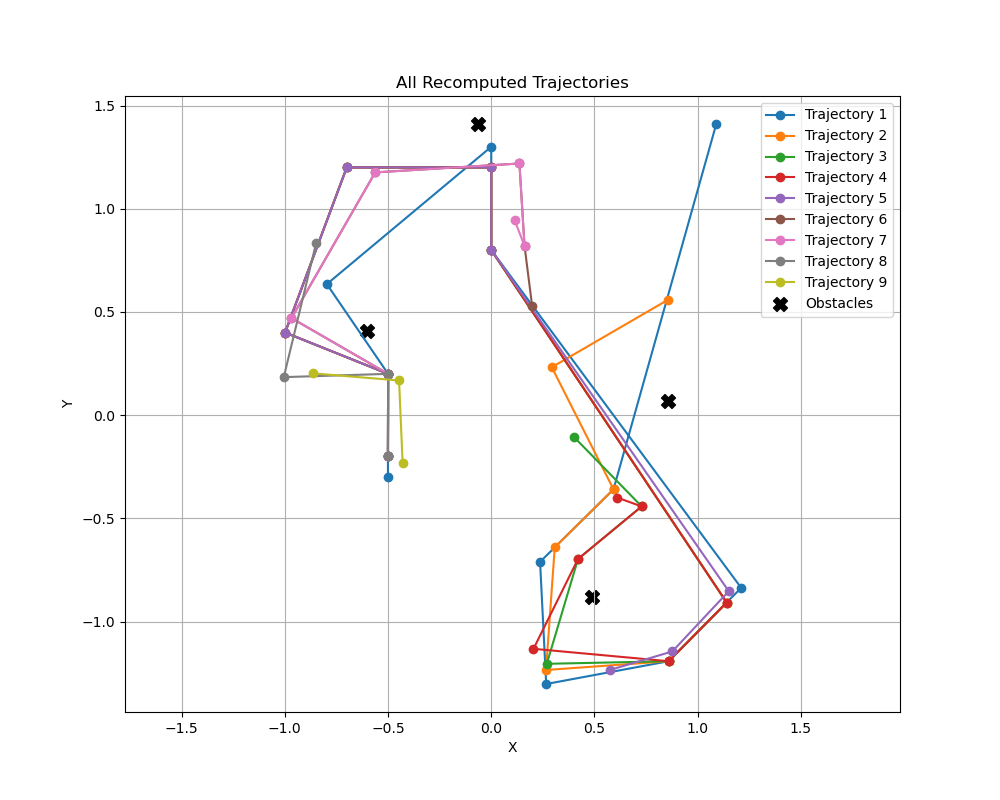
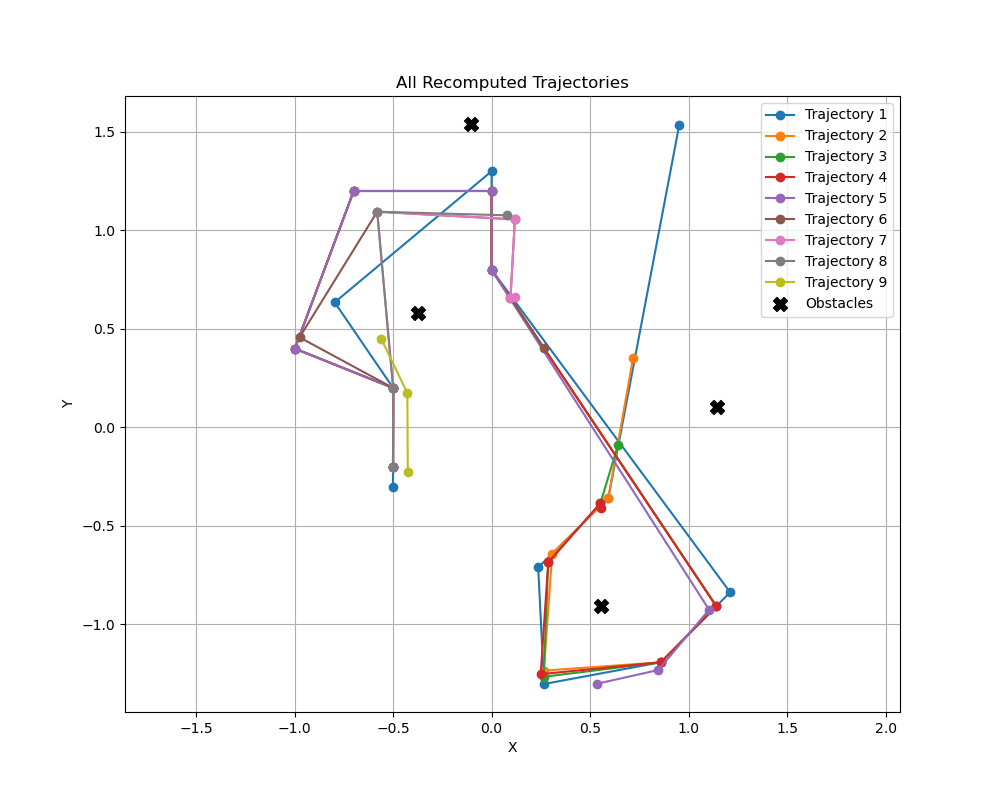
fixed extra point calculation

diff --git a/lsy_drone_racing/control/straight_line_controller.py b/lsy_drone_racing/control/straight_line_controller.py
@@ -24,7 +24,7 @@ if TYPE_CHECKING:
 #added imports
 from scipy.spatial.transform import Rotation as R
 from scipy.interpolate import interp1d
-#import matplotlib.pyplot as plt
+import matplotlib.pyplot as plt
 
 def add_detours_around_obstacles(waypoints, obstacles, safety_radius=0.15):
     def point_line_distance_2d(p, a, b):
@@ -108,6 +108,8 @@ class TrajectoryController(Controller):
 
         self.last_known_gates_pos = obs["gates_pos"]
         self.last_known_obstacles_pos = obs["obstacles_pos"]
+
+        self.last_extra_point = None
         
         self.trajectory_history = []
         self.trajectory_history.append(waypoints.copy())
@@ -133,8 +135,6 @@ class TrajectoryController(Controller):
         target_gate = obs["target_gate"]
         self.gates_passed = np.zeros(4, dtype=bool)
         self.gates_passed[:target_gate] = True
-        print(self.gates_passed)
-
 
         if not np.allclose(obs["gates_pos"], self.last_known_gates_pos, atol=0.001):
             print("GATE POSITION CHANGED, RECOMPUTE TRAJECTORY!!!")
@@ -162,25 +162,29 @@ class TrajectoryController(Controller):
             if not gate_passed:
                 rot = R.from_quat(gate_quat).as_matrix()
                 fwd = rot[:, 1]
+                sideways = rot[:, 0]
                 entry = gate_pos - 0.2 * fwd
                 exit = gate_pos + 0.2 * fwd
+                pos_close_to_gate_2 = (
+                    abs(pos[0] - 0.0) <= 0.3 and
+                    abs(pos[1] - 1.0) <= 0.3 and
+                    abs(pos[2] - 0.56) <= 0.2
+                )
+                if target_gate==3 and pos_close_to_gate_2:
+                    extra_point = self.last_extra_point
+                    print(f"extra_point at {extra_point}")
+                    waypoints.append(extra_point)
                 waypoints.append(entry)
                 waypoints.append(exit)
-                is_gate_2 = (
+                is_gate_3 = (
                     abs(gate_pos[0] - 0.0) <= 0.15 and
                     abs(gate_pos[1] - 1.0) <= 0.15 and
                     abs(gate_pos[2] - 0.56) <= 0.1
                 )
-                pos_close_to_gate_2 = (
-                    abs(pos[0] - 0.0) <= 0.15 and
-                    abs(pos[1] - 1.0) <= 0.15 and
-                    abs(pos[2] - 0.56) <= 0.1
-                )
-                if is_gate_2 or (target_gate==3 and pos_close_to_gate_2):
-                    #pos = [0.0, 1.0, 0.56]
-                    sideways = rot[:, 0]
+                if is_gate_3:
                     extra_point = exit - 0.7*sideways
-                    print(f"extra_point is {extra_point}")
+                    self.last_extra_point = extra_point
+                    print(f"extra_point at {extra_point}")
                     waypoints.append(extra_point)
                 
 
@@ -198,27 +202,24 @@ class TrajectoryController(Controller):
         if np.any(np.diff(t) <= 0):
             t += np.linspace(0, 1e-3, len(t))  # ensure strict monotonicity
 
-        # Create safe trajectory function
         self.trajectory_history.append(waypoints.copy())
-        #print("Trajectory recomputed. Plotting...")
+        print("Trajectory recomputed. Plotting...")
         #self.plot_all_trajectories()
 
         return interp1d(t, waypoints, kind='linear', axis=0, fill_value='extrapolate')
 
     
-    #def plot_all_trajectories(self):
-#
+#    def plot_all_trajectories(self):
 #        plt.figure(figsize=(10, 8))
 #        for i, wp in enumerate(self.trajectory_history):
 #            if isinstance(wp, dict):
 #                wp = wp["waypoints"]
 #            x, y = wp[:, 0], wp[:, 1]
-#            plt.plot(x, y, '-o', label=f'Trajectory {i+1}')
+#           plt.plot(x, y, '-o', label=f'Trajectory {i+1}')
 #
 #        if hasattr(self, "last_known_obstacles_pos") and self.last_known_obstacles_pos is not None:
 #            obs = self.last_known_obstacles_pos
 #            plt.scatter(obs[:, 0], obs[:, 1], color='black', marker='X', s=100, label='Obstacles')
-#
 #        plt.title("All Recomputed Trajectories")
 #        plt.xlabel("X")
 #        plt.ylabel("Y")
